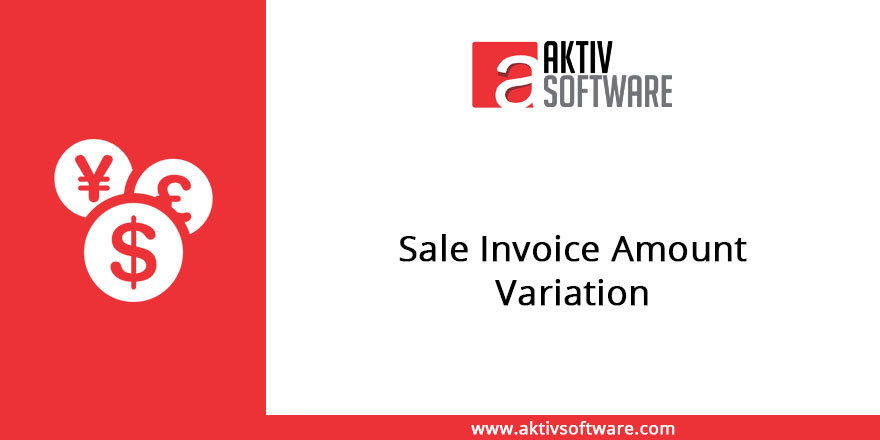
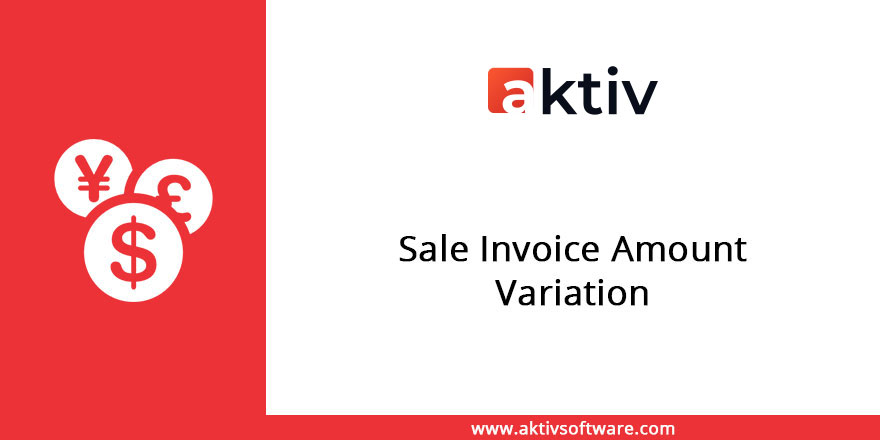
[ADD] change image in 10.0

Changed region(s): [[0.5216, 0.0886, 0.767, 0.2659]]

diff --git a/sale_invoice_amount_variation/static/description/index.html b/sale_invoice_amount_variation/static/description/index.html
@@ -84,7 +84,7 @@
     <div class="oe_row oe_spaced">
         <h2 class="oe_slogan">
             <a href="http://aktivsoftware.com/" target="new">
-                <img src="http://aktivsoftware.com/wp-content/uploads/2018/01/logo-1.png"/>
+                <img src="aktiv-logo.png"/>
             </a>
             <br/>
             <a href="mailto:sales@aktivsoftware.com" style="color: #000000 !important;">
